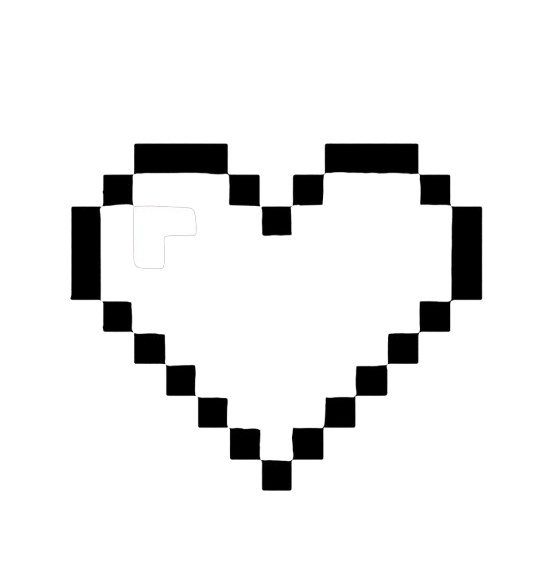
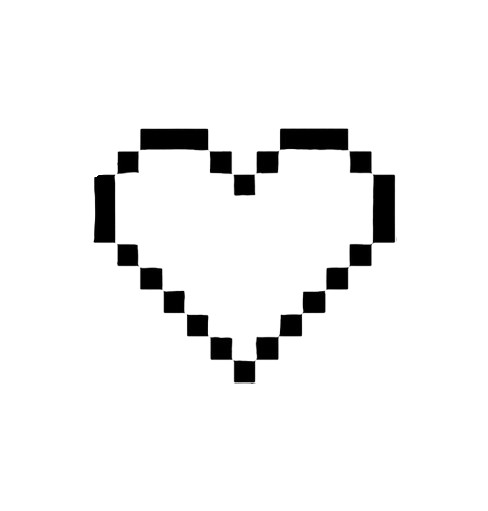
1. main 페이지의 node 부분 생성 2. filter와 node 부분 main.html에 결합 3.heart 이미지 파일 크기 조정

Changed region(s): [[0.123, 0.2348, 0.8914, 0.8513]]

diff --git a/src/main/page/main/node.js b/src/main/page/main/node.js
@@ -1,0 +1,71 @@
+// 가상의 백엔드에서 받아온 데이터 (예시)
+const data = [
+    {
+        name: "아임 더 보스",
+        players: "3~6명",
+        time: "60m~",
+        difficulty: 3, // 난이도 숫자
+        genres: ["협상", "전략"],
+        image: "placeholder.png", // 이미지 경로
+        liked: true // 좋아요 여부
+    },
+    {
+        name: "다른 게임",
+        players: "2~4명",
+        time: "30m~",
+        difficulty: 4,
+        genres: ["추리", "협력"],
+        image: "placeholder.png",
+        liked: false
+    }
+];
+
+// 난이도에 따라 별점 이미지를 반환하는 함수
+function generateStarImage(difficulty) {
+    return `<img src="../../asset/star/${difficulty}star.png" alt="${difficulty} stars" class="star-image">`;
+}
+
+// 좋아요 상태에 따라 하트 이미지를 반환하는 함수
+function generateHeartImage(isLiked) {
+    const heartPath = isLiked ? "../../asset/full_heart_resized.png" : "../../asset/null_heart_resized.png";
+    return `<img src="${heartPath}" alt="${isLiked ? '좋아요' : '좋아요 안 함'}" class="heart_image">`;
+}
+
+// 카드 생성 함수
+function createCard(cardData) {
+    return `
+        <div class="card">
+            <div class="card-image">
+                <img src="${cardData.image}" alt="${cardData.name}" />
+            </div>
+            <div class="card-content">
+                <h3>${cardData.name}</h3>
+                <p>${cardData.players}</p>
+                <p>${cardData.time}</p>
+                <div class="stars">
+                    ${generateStarImage(cardData.difficulty)}
+                </div>
+                <div class="tags">
+                    ${cardData.genres.map(genre => `<span class="tag">${genre}</span>`).join("")}
+                </div>
+            </div>
+            <div class="card-like">
+                ${generateHeartImage(cardData.liked)}
+            </div>
+        </div>
+    `;
+}
+
+
+// 데이터를 기반으로 카드 추가
+function loadCards(data) {
+    const cardContainer = document.getElementById("cardContainer");
+    data.forEach(cardData => {
+        cardContainer.innerHTML += createCard(cardData);
+    });
+}
+
+// 페이지 로드 시 실행
+window.onload = function () {
+    loadCards(data);
+};

diff --git a/src/main/style/node.css b/src/main/style/node.css
@@ -1,0 +1,96 @@
+@font-face {
+    font-family: 'PFStardust';
+    src: url('../asset/font/PF스타더스트 3.0 S.ttf') format('truetype');
+    font-weight: normal;
+    font-style: normal;
+}
+
+* {
+    font-family: 'PFStardust', sans-serif;
+    margin: 0;
+    padding: 0;
+    box-sizing: border-box;
+}
+
+/* 기본 스타일 초기화 */
+body {
+    margin: 0;
+    font-family: Arial, sans-serif;
+    background-color: #f9f9f9;
+}
+
+.card-container {
+    width: 80%; /* 검색 창과 동일한 너비 */
+    margin: 20px auto; /* 검색 창과 동일한 중앙 정렬 */
+    display: grid;
+    grid-template-columns: repeat(2, 1fr);
+    gap: 20px;
+}
+
+/* 카드 개별 스타일 */
+.card {
+    display: flex;
+    align-items: center;
+    padding: 20px;
+    background: white;
+    box-shadow: 0 2px 5px rgba(0, 0, 0, 0.1);
+    border-radius: 10px;
+    min-height: 150px;
+    position: relative;
+}
+
+.card-like {
+    position: absolute; /* 하트를 카드의 절대 위치로 배치 */
+    bottom: 10px; /* 카드의 아래쪽에서 10px 떨어짐 */
+    right: 10px; /* 카드의 오른쪽에서 10px 떨어짐 */
+}
+
+/* 카드 이미지 */
+.card-image {
+    width: 100px;
+    height: 100px;
+    background: #ccc;
+    border-radius: 10px;
+    margin-right: 20px;
+}
+
+/* 카드 내용 */
+.card-content {
+    flex: 1;
+}
+
+.card-content h3 {
+    margin: 0;
+    font-size: 16px;
+    font-weight: bold;
+}
+
+.card-content p {
+    margin: 5px 0;
+    font-size: 14px;
+}
+
+.stars img{
+    height: 15px;
+}
+
+/* 태그 버튼 스타일 */
+.tags {
+    margin-top: 10px;
+}
+
+.tag {
+    background-color: #e3e3e3;
+    border: none;
+    border-radius: 15px;
+    padding: 5px 10px;
+    font-size: 12px;
+    cursor: pointer;
+    margin-right: 5px;
+}
+
+/* 좋아요 버튼 */
+.card-like img {
+    width: 40px;
+    cursor: pointer;
+}

diff --git a/src/main/style/filter.css b/src/main/style/filter.css
@@ -30,6 +30,7 @@ body {
 .search-bar {
     display: flex;
     justify-content: space-between;
+    align-items: center;
     margin-bottom: 20px;
 }
 
@@ -39,20 +40,26 @@ body {
     font-size: 16px;
     border: 1px solid #ccc;
     border-radius: 40px;
+    margin-right: 10px; /* 버튼과 간격 */
 }
 
 .search-bar button {
     width: 50px;
-    margin-left: 10px;
+    margin-left: 5px; /* 버튼 간격 */
     border: none;
     background-color: white;
     cursor: pointer;
     transition: background-color 0.2s;
 }
 
-.search-bar img{
+.search-bar img {
     width: 25px;
     height: 25px;
+}
+
+.search-bar .right-buttons {
+    display: flex;
+    gap: 10px;
 }
 
 

diff --git a/src/main/page/main/filter.js b/src/main/page/main/filter.js
@@ -92,8 +92,8 @@ const filters = document.querySelector('.filters');
 toggleButton.addEventListener('click', () => {
     filters.classList.toggle('hidden'); // 'hidden' 클래스를 추가/제거
     toggleButton.querySelector('img').src = filters.classList.contains('hidden')
-        ? '../asset/down.png' // 아래로 향하는 아이콘
-        : '../asset/up.png';  // 위로 향하는 아이콘
+        ? '../../asset/down.png' // 아래로 향하는 아이콘
+        : '../../asset/up.png';  // 위로 향하는 아이콘
 });
 
 

diff --git a/src/main/component/SideMenu.html b/src/main/component/SideMenu.html
@@ -9,8 +9,8 @@
 <body>
 <aside class="side-menu">
     <nav>
-        <a href="../page/main.html" class="menu-item">벌칙 룰렛</a>
-        <a href="../page/main.html" class="menu-item">점수 계산기</a>
+        <a href="../page/main/main.html" class="menu-item">벌칙 룰렛</a>
+        <a href="../page/main/main.html" class="menu-item">점수 계산기</a>
     </nav>
 </aside>
 </body>

diff --git a/src/main/component/Header_guest.html b/src/main/component/Header_guest.html
@@ -10,7 +10,7 @@
 <header>
     <div class="header-container">
         <div class="logo">
-            <a href="../page/main.html">
+            <a href="../page/main/main.html">
                 <img src="../asset/logo.png" alt="사이트 로고" />
             </a>
         </div>

diff --git a/src/main/component/Header_login.html b/src/main/component/Header_login.html
@@ -10,7 +10,7 @@
 <header>
   <div class="header-container">
     <div class="logo">
-      <a href="../page/main.html">
+      <a href="../page/main/main.html">
         <img src="../asset/logo.png" alt="사이트 로고" />
       </a>
     </div>
